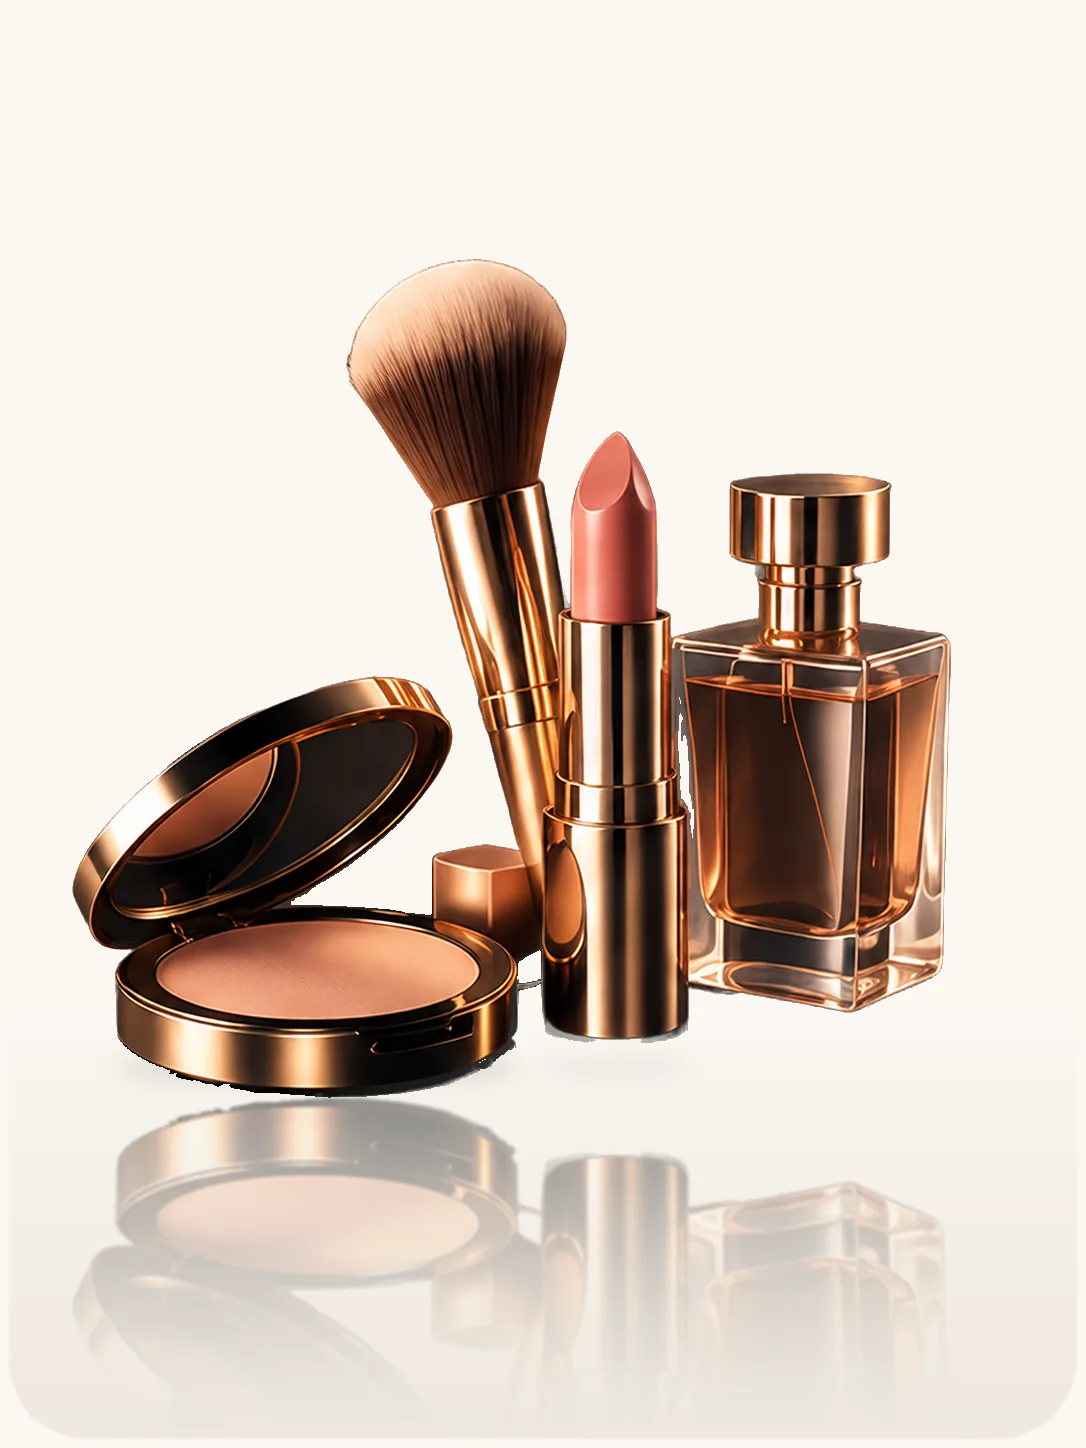
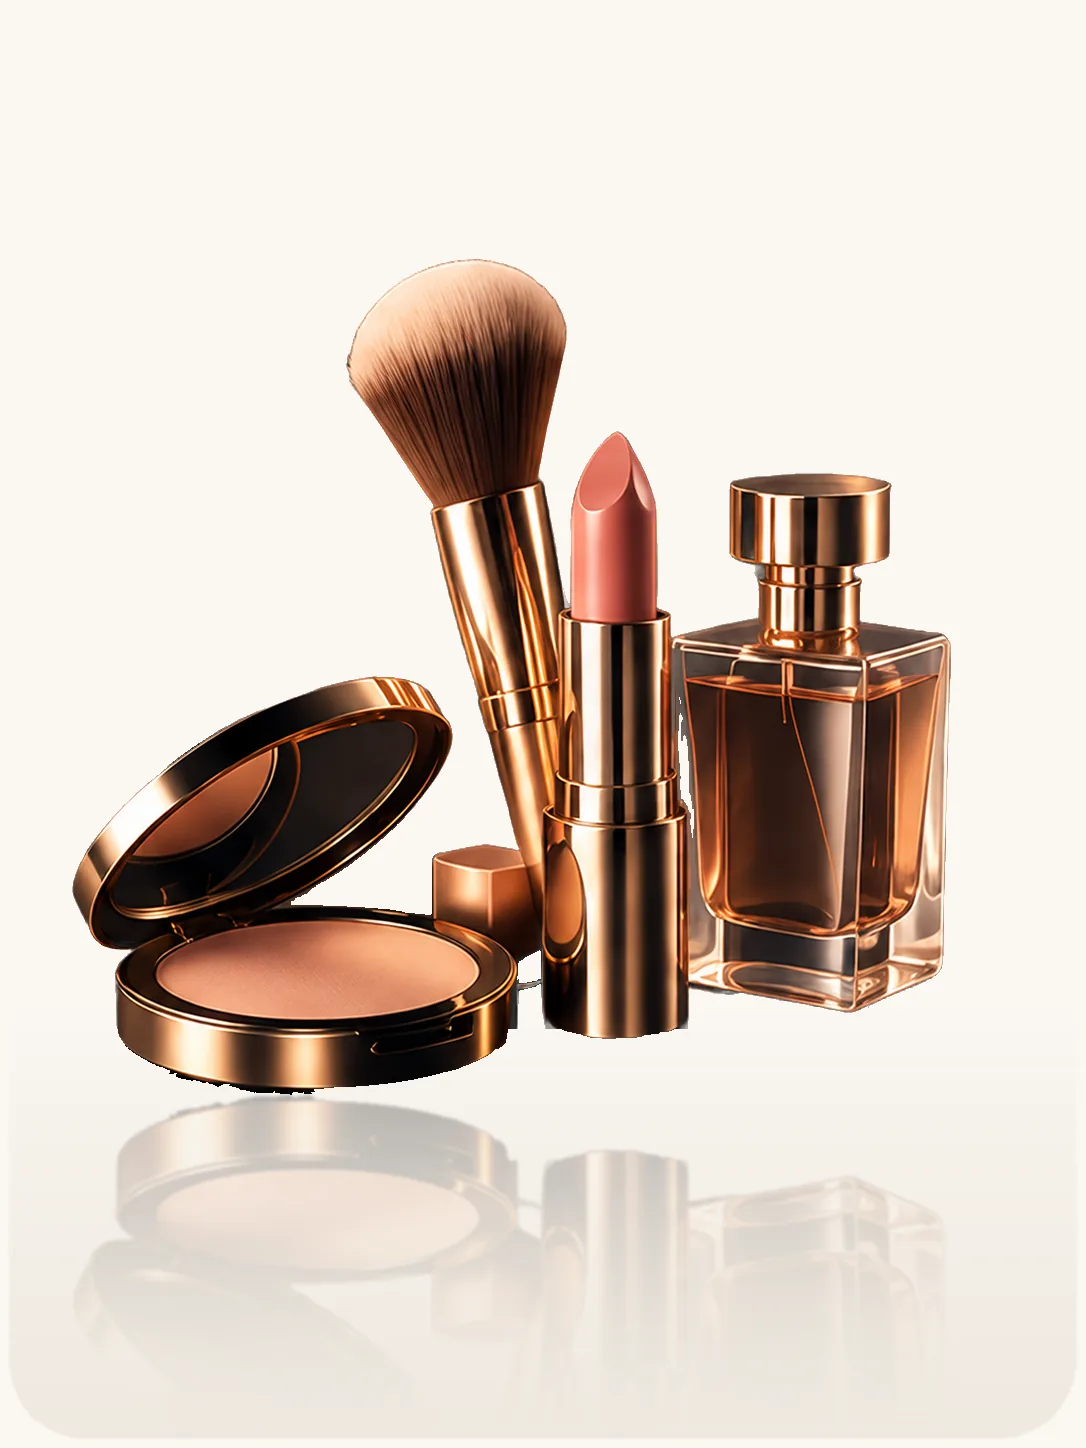
Home category cards: Beka's second ivory set
Seven cards are the re-cut pictures from ivory-cards-v2.zip. The table
(venues) and the rings are the two generated pictures in the same zip:
whole scenes on their own backdrop, which replaces the table cut-out
that had dark floor left under its chairs. They are cropped to the
cards' 3:4, the dark rounded frame at the foot of the rings picture is
painted out, and their backdrops are brought to the other cards' ivory.

diff --git a/frontend/public/media/README.md b/frontend/public/media/README.md
@@ -90,3 +90,8 @@ Served as-is at `/media/...`.
   flattened on ivory and saved as `name-1086.webp` (q82) and `name.webp` 720×960 (q84); the
   cards became ivory with charcoal words (`.orbit` in `home.scss`). Known flaws in the
   cut-outs: dark floor left under the table's chair legs and under the car's wheels.
+  2026-11-19: second ivory set (Downloads/`ivory-cards-v2.zip`). Seven cards are its
+  re-cut PNGs. `venues` and `rings` are the two generated pictures in the same zip (whole
+  scenes on their own backdrop, 896×1200 JPG, enlarged to the cards' size): cropped to 3:4,
+  the rounded dark frame at the foot of the rings picture painted out, and each backdrop
+  brought to the other cards' ivory with a gain that changes from top to foot.
